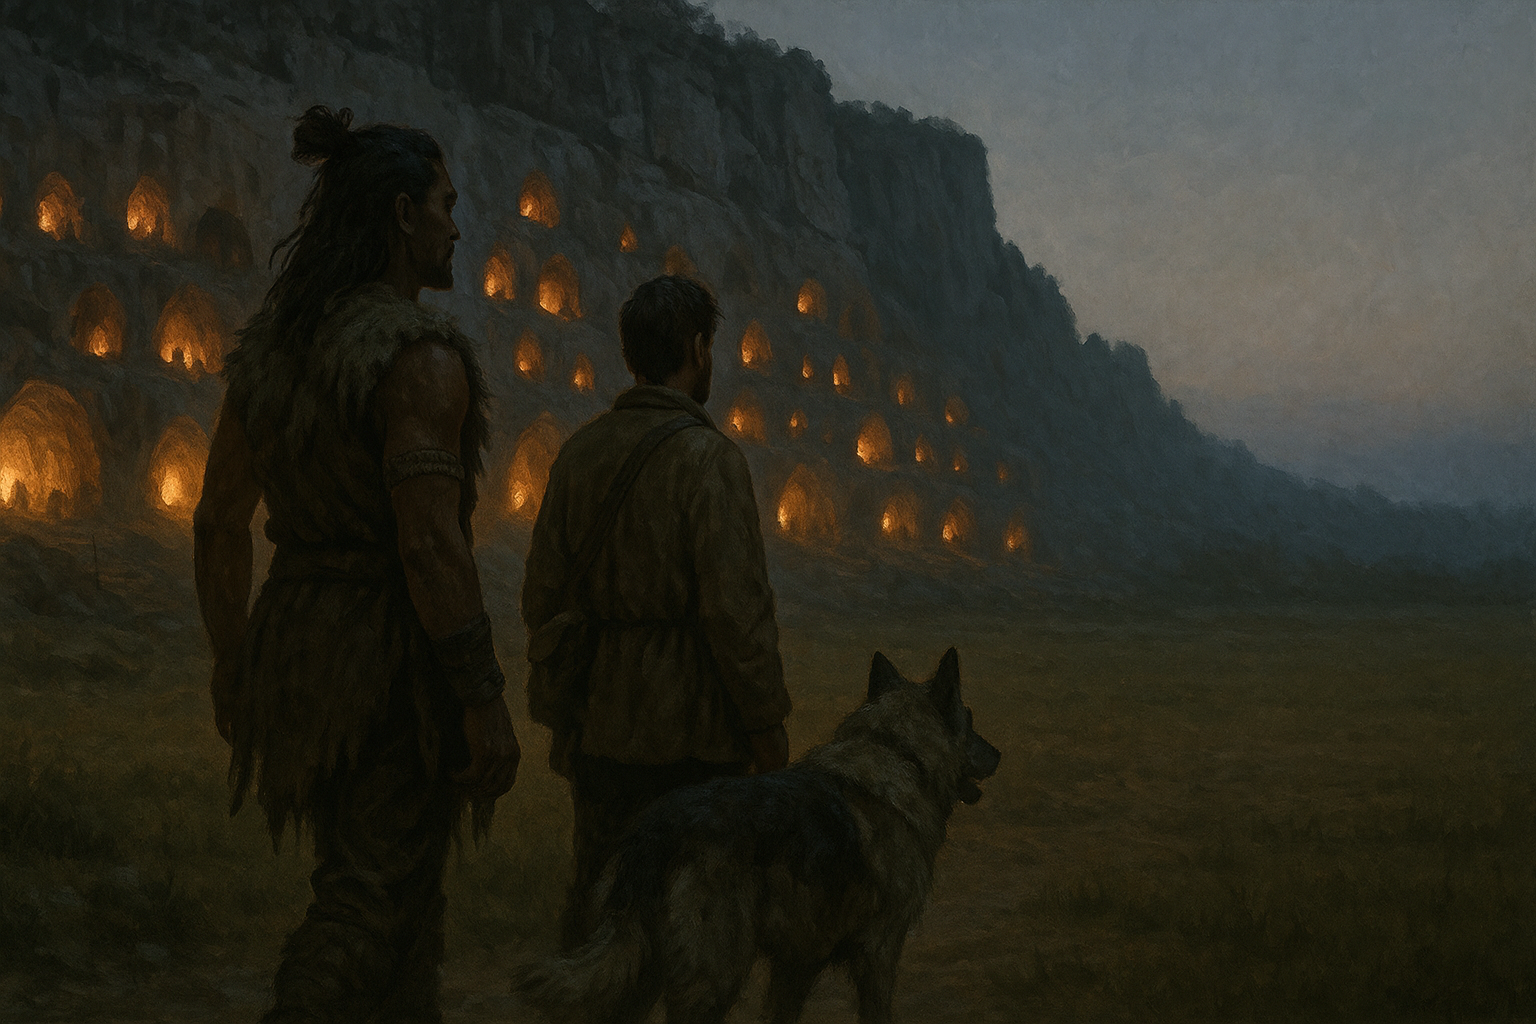
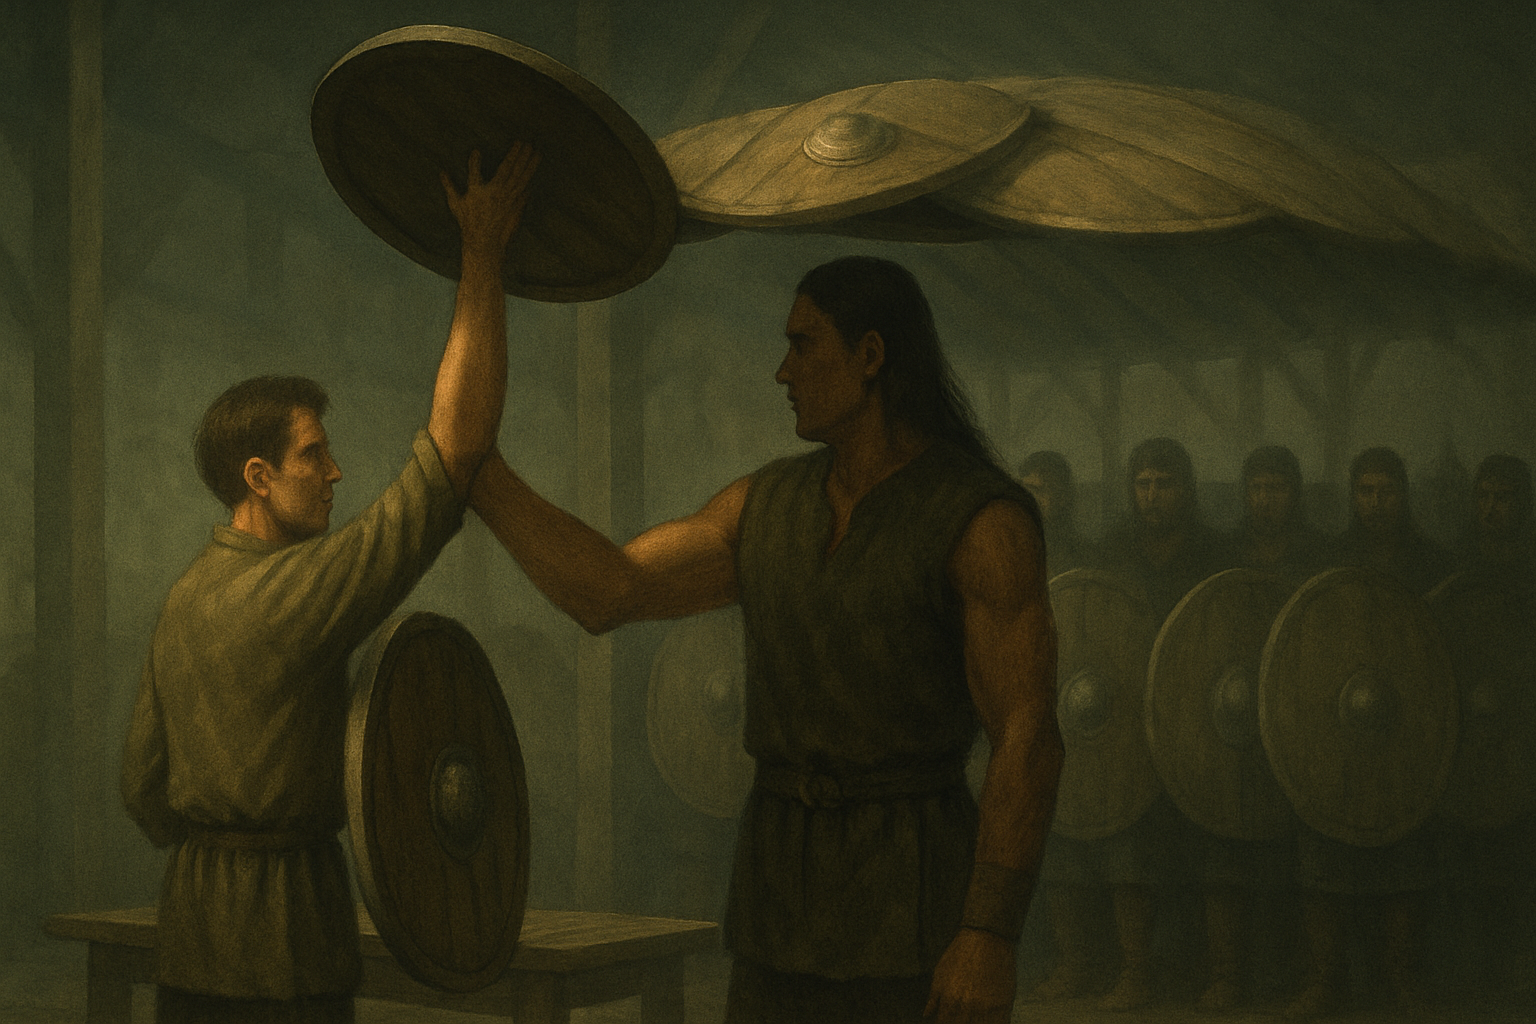
Upload adit #10 (final batch)

diff --git a/site/presentations/a-door-into-time/presentation-10/index.html b/site/presentations/a-door-into-time/presentation-10/index.html
@@ -1,5 +1,22 @@
-<!DOCTYPE html><html lang="en"><head><meta charset="utf-8"/><meta http-equiv="refresh" content="0; url=week9-enhanced-presentation.html"/><meta name="viewport" content="width=device-width,initial-scale=1"/><title>TEST</title></head><body style="background:#0b1220;color:#e8edf5;font-family:system-ui,Segoe UI,Roboto,Arial,sans-serif"><div style="position:fixed;top:1rem;left:1rem;right:1rem;display:flex;justify-content:space-between;z-index:100">
-    <a href="/" style="color:#fff;background:rgba(255,255,255,.12);border:1px solid rgba(255,255,255,.25);padding:.6rem 1rem;border-radius:.6rem;text-decoration:none">Home</a>
-    <a href="/language-arts/index.html" style="color:#fff;background:rgba(255,255,255,.12);border:1px solid rgba(255,255,255,.25);padding:.6rem 1rem;border-radius:.6rem;text-decoration:none">Back to Language Arts</a>
-    <a href="/language-arts/a-door-into-time/index.html" style="color:#fff;background:rgba(255,255,255,.12);border:1px solid rgba(255,255,255,.25);padding:.6rem 1rem;border-radius:.6rem;text-decoration:none">Back to unit</a>
-  </div><p style="color:#fff;padding:1rem">Redirecting…</p></body></html>
+<!DOCTYPE html><html lang="en"><head>
+    
+  <meta charset="utf-8"/>
+  <meta name="viewport" content="width=device-width,initial-scale=1"/>
+  <title>CHAPTERS 29-31 - STRUCTURE</title>
+  <link rel="stylesheet" href="/assets/css/theme.css"/>
+  <script src="/assets/js/section-nav.js" defer></script>
+    <meta http-equiv="refresh" content="0; url=week9-enhanced-presentation.html"/>
+  </head>
+  <body>
+    
+  <div class="glass-nav">
+    <div class="left">
+      <a class="btn" href="/">Home</a>
+      <a class="btn" href="/language-arts/">Back to Language Arts</a>
+    </div>
+    <div class="right">
+      <a class="btn" href="/language-arts/a-door-into-time/">Back to unit</a>
+    </div>
+  </div>
+    <p style="color:#fff;padding:1rem">Redirecting…</p>
+  </body></html>
